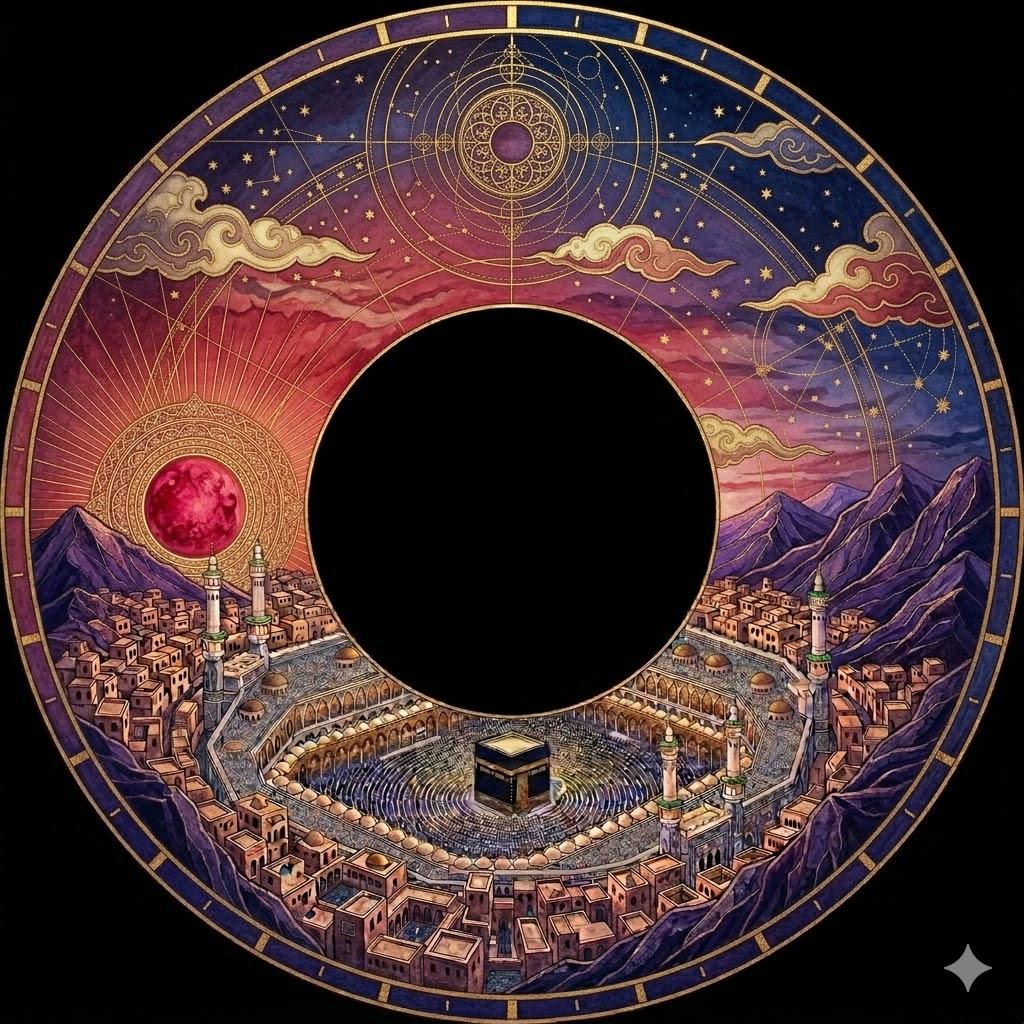
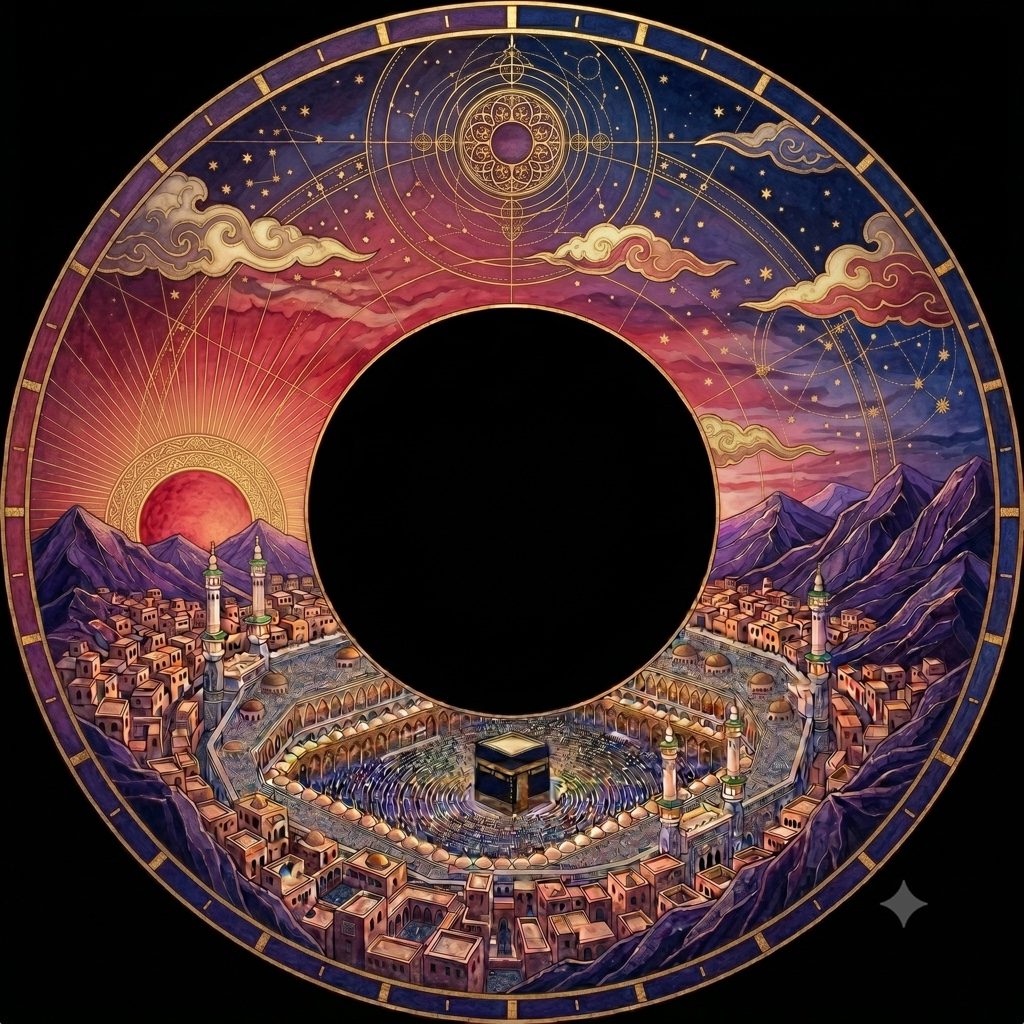
v1.11.5 — corrected Maghrib (dusk) scene art
Replace static/scenes/dusk.jpg with a corrected sunset; the previous image had the sun too high for Maghrib. Image-only change — console.html unchanged from v1.11.4.

diff --git a/sw.js b/sw.js
@@ -10,7 +10,7 @@
  *     the old cache cleanly. Bump CACHE_NAME on any v1.x.y release that
  *     changes the shell.
  */
-const CACHE_NAME = 'castadhan-shell-v1.11.4';
+const CACHE_NAME = 'castadhan-shell-v1.11.5';
 const SHELL_URLS = ['/', '/manifest.json'];
 
 self.addEventListener('install', event => {
